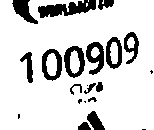
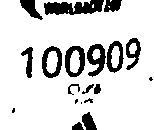
recitfication de l'angle de detection -15 degres +15 degres

diff --git a/test_yolo.py b/test_yolo.py
@@ -31,12 +31,41 @@ def deskew_fixed(image, max_angle=15):
 
     return best_image
 
+def deskew_best_rotation(image, max_angle=15):
+    """
+    Teste plusieurs rotations entre -max_angle et +max_angle degrés
+    et garde celle donnant le meilleur groupe de chiffres OCR.
+    """
+    best_image = image
+    best_text = ""
+    config = '--psm 6 -c tessedit_char_whitelist=0123456789'
+
+    for angle in range(-max_angle, max_angle + 1, 2):  # -15 à +15 degrés, pas de 2
+        (h, w) = image.shape[:2]
+        M = cv2.getRotationMatrix2D((w // 2, h // 2), angle, 1.0)
+        rotated = cv2.warpAffine(image, M, (w, h),
+                                 flags=cv2.INTER_CUBIC, borderMode=cv2.BORDER_REPLICATE)
+
+        gray = cv2.cvtColor(rotated, cv2.COLOR_BGR2GRAY)
+        _, thresh = cv2.threshold(gray, 150, 255, cv2.THRESH_BINARY)
+        text = pytesseract.image_to_string(thresh, config=config).strip()
+
+        matches = re.findall(r"\d{4,6}", text)
+        if matches:
+            candidate = max(matches, key=len)
+            if len(candidate) > len(best_text):
+                best_text = candidate
+                best_image = rotated
+
+    return best_image, best_text
+
+
 
 # 📦 Charge ton modèle entraîné
 model = YOLO("runs/detect/train/weights/best.pt")
 
 # 📷 Charge l'image
-img = cv2.imread("coureurs2.jpg")
+img = cv2.imread("coureurs.jpg")
 assert img is not None, "Image non trouvée"
 
 # ⏱ Prédiction YOLO
@@ -87,9 +116,18 @@ for i, (box, conf) in enumerate(zip(detections.xyxy, detections.conf)):
     cv2.imwrite(f"dossard_{i}.jpg", roi)
 
     # 🌀 Correction d’inclinaison
-    deskewed = deskew_fixed(roi, max_angle=15)
-
+    deskewed, best_text = deskew_best_rotation(roi, max_angle=15)
     cv2.imwrite(f"dossard_{i}_deskewed.jpg", deskewed)
+
+    if best_text:
+        bib_numbers.append(best_text)
+        print(f"📖 OCR optimisé dans dossard_{i} : {best_text}")
+    else:
+        print(f"📖 Aucun numéro valide trouvé dans dossard_{i}")
+
+
+
+    # cv2.imwrite(f"dossard_{i}_deskewed.jpg", deskewed)
 
     # 🔲 Prétraitement pour OCR
     gray = cv2.cvtColor(deskewed, cv2.COLOR_BGR2GRAY)
@@ -97,22 +135,26 @@ for i, (box, conf) in enumerate(zip(detections.xyxy, detections.conf)):
     _, thresh = cv2.threshold(gray, 150, 255, cv2.THRESH_BINARY)
     cv2.imwrite(f"dossard_{i}_thresh.jpg", thresh)
 
-    # 🔠 Tesseract OCR
+    # # 🔠 Tesseract OCR
     # 🔠 Tesseract OCR
     config = '--psm 6 -c tessedit_char_whitelist=0123456789'
     text = pytesseract.image_to_string(thresh, config=config).strip()
 
-    # 🔍 Extraction de séquences de 4 à 6 chiffres
-    matches = re.findall(r"\d{4,6}", text)
-    if matches:
-        best = max(matches, key=len)
-        bib_numbers.append(best)
-        print(f"📖 OCR filtré dans dossard_{i} : {best}")
-    else:
-        print(f"📖 OCR (brut mais non valide) dans dossard_{i} : '{text}'")
+    # # 🔍 Extraction de séquences de 4 à 6 chiffres
+    # matches = re.findall(r"\d{4,6}", text)
+    # if matches:
+    #     best = max(matches, key=len)
+    #     bib_numbers.append(best)
+    #     print(f"📖 OCR filtré dans dossard_{i} : {best}")
+    # else:
+    #     print(f"📖 OCR (brut mais non valide) dans dossard_{i} : '{text}'")
 
+    # 💾 Enregistrement des résultats OCR
     with open("resultats_bib.txt", "w") as f:
         for num in bib_numbers:
             f.write(num + "\n")
 
     print("✅ Résultats OCR enregistrés dans resultats_bib.txt")
+
+
+    
